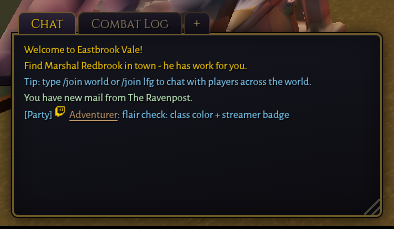
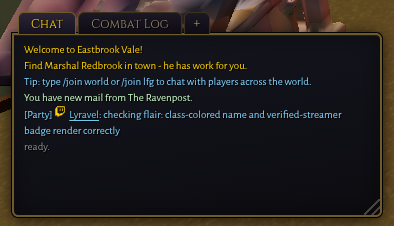
fix(ui): keep the pinned chat-sender window intact; polish PR captures
Shrinks the two new comments in Hud.chatLogFrom (senderEntity -> ent,
plus dropping a now-redundant comment) so the pinned character-offset
window in tests/deed_i18n.test.ts still covers
openChatPlayerContextMenu; the class-color addition had pushed it just
past the pin.

Also fixes a real bug in scripts/pr_screenshots.mjs: shoot() clipped
straight from an element's margin-padded bounding box with no viewport
clamp, so a wide/short mobile viewport could silently truncate the
capture. Clip is now intersected with the viewport bounds.

Reworks the chat-flair-class-color capture: uses a mage (bright blue)
character instead of the default warrior so the class-color diff reads
clearly against plain white, strips the headless-swiftshader GPU
notice (a capture-environment artifact, not part of what the target
shows), and appends a short trailing filler line so the flair line
itself is never the bottom-most row under the mobile chat log's
"more below" peek-fade gradient. Regenerated all four before/after
screenshots.

diff --git a/src/ui/hud.ts b/src/ui/hud.ts
@@ -9888,12 +9888,8 @@ export class Hud {
     sender.setAttribute('role', 'button');
     sender.setAttribute('aria-label', t('hudChrome.playerMenu.openFor', { name }));
     sender.tabIndex = 0;
-    // Classic-MMO class-colored chat names: only for a live player entity in
-    // interest scope (chat reaches you from players far outside it, per
-    // sim/account_flair.ts, so a sender with no resolvable entity keeps the
-    // channel's default line color instead of guessing a class).
-    const senderEntity = fromPid !== undefined ? this.sim.entities.get(fromPid) : undefined;
-    if (senderEntity?.kind === 'player') sender.style.color = classCss(senderEntity.templateId);
+    const ent = fromPid !== undefined ? this.sim.entities.get(fromPid) : undefined;
+    if (ent?.kind === 'player') sender.style.color = classCss(ent.templateId);
     // Anchor the menu under the name itself for a click/tap/keyboard open, and at
     // the cursor for a right-click.
     const openUnderName = () => {
